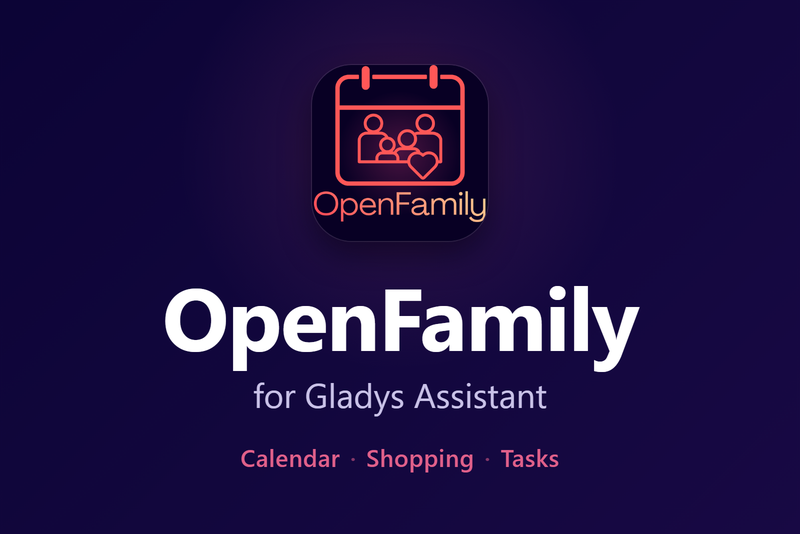
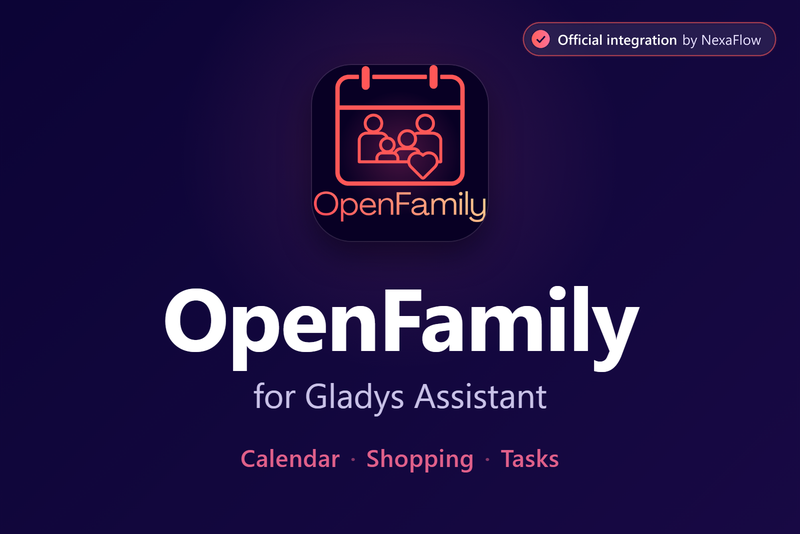
Say that this is the official OpenFamily integration, by NexaFlow
The cover image carries a small badge in its top right corner, the
READMEs open with the matching badge, and the documentation shown in the
Gladys catalog says who builds and maintains the integration. The
credits keep saying that it is not part of Gladys Assistant, where it is
listed as a community integration.

Changed region(s): [[0.6562, 0.03, 0.9688, 0.1199]]

diff --git a/README.fr.md b/README.fr.md
@@ -1,11 +1,12 @@
 <div align="center">
-  <img src="cover.png" alt="OpenFamily pour Gladys Assistant" width="520">
+  <img src="cover.png" alt="OpenFamily pour Gladys Assistant, l'intégration officielle par NexaFlow" width="520">
   <h1>OpenFamily pour Gladys Assistant</h1>
   <p><strong>Le calendrier familial, la liste de courses et les tâches, directement dans votre domotique</strong><br>
   Deux projets open source français, tous deux hébergés à la maison.</p>
 
 🇬🇧 <a href="README.md">English</a> · 🇫🇷 <strong>Français</strong>
 
+[![Intégration officielle par NexaFlow](https://img.shields.io/badge/Int%C3%A9gration%20officielle-par%20NexaFlow-ff605c)](https://nexaflow.fr)
 [![Release](https://img.shields.io/github/v/release/NexaFlowFrance/gladys-openfamily?color=16a34a&label=version)](https://github.com/NexaFlowFrance/gladys-openfamily/releases/latest)
 [![CI](https://img.shields.io/github/actions/workflow/status/NexaFlowFrance/gladys-openfamily/ci.yml?branch=main&label=CI)](https://github.com/NexaFlowFrance/gladys-openfamily/actions/workflows/ci.yml)
 [![Gladys Assistant](https://img.shields.io/badge/Gladys%20Assistant-5.2%2B-0ea5e9)](https://gladysassistant.com)
@@ -21,6 +22,9 @@ auto-hébergé : calendrier, liste de courses, tâches, repas, budget.
 [Gladys Assistant](https://gladysassistant.com) est un assistant domotique open source,
 respectueux de la vie privée. Cette intégration relie les deux : Gladys s'occupe de la maison,
 OpenFamily de la vie de famille qui s'y déroule.
+
+C'est l'intégration officielle d'OpenFamily pour Gladys Assistant, développée et maintenue par
+[NexaFlow](https://nexaflow.fr), l'équipe à l'origine d'OpenFamily.
 
 ## ✨ Ce que vous obtenez
 
@@ -90,8 +94,9 @@ Un problème, une idée ? Ouvrez une
 Construite à partir du
 [template JavaScript](https://github.com/GladysAssistant/integration-template-js) et du
 [SDK](https://github.com/GladysAssistant/integration-sdk-js) officiels de Gladys Assistant, en
-suivant les conseils donnés sur le forum de la communauté Gladys. C'est l'intégration du projet
-OpenFamily ; elle ne fait pas partie de Gladys Assistant.
+suivant les conseils donnés sur le forum de la communauté Gladys. C'est l'intégration officielle
+du projet OpenFamily, maintenue par [NexaFlow](https://nexaflow.fr). Elle ne fait pas partie de
+Gladys Assistant, où elle figure parmi les intégrations communautaires.
 
 ## 📄 Licence
 

diff --git a/README.md b/README.md
@@ -1,11 +1,12 @@
 <div align="center">
-  <img src="cover.png" alt="OpenFamily for Gladys Assistant" width="520">
+  <img src="cover.png" alt="OpenFamily for Gladys Assistant, the official integration by NexaFlow" width="520">
   <h1>OpenFamily for Gladys Assistant</h1>
   <p><strong>The family calendar, shopping list and tasks, right in your home assistant</strong><br>
   Two open-source projects made in France, both running at home.</p>
 
 🇬🇧 <strong>English</strong> · 🇫🇷 <a href="README.fr.md">Français</a>
 
+[![Official integration by NexaFlow](https://img.shields.io/badge/Official%20integration-by%20NexaFlow-ff605c)](https://nexaflow.fr)
 [![Release](https://img.shields.io/github/v/release/NexaFlowFrance/gladys-openfamily?color=16a34a&label=version)](https://github.com/NexaFlowFrance/gladys-openfamily/releases/latest)
 [![CI](https://img.shields.io/github/actions/workflow/status/NexaFlowFrance/gladys-openfamily/ci.yml?branch=main&label=CI)](https://github.com/NexaFlowFrance/gladys-openfamily/actions/workflows/ci.yml)
 [![Gladys Assistant](https://img.shields.io/badge/Gladys%20Assistant-5.2%2B-0ea5e9)](https://gladysassistant.com)
@@ -21,6 +22,9 @@ organizer: calendar, shopping list, tasks, meals, budget.
 [Gladys Assistant](https://gladysassistant.com) is an open-source home assistant that respects
 your privacy. This integration connects the two: Gladys looks after the house, OpenFamily after
 the family life that happens in it.
+
+This is the official OpenFamily integration for Gladys Assistant, built and maintained by
+[NexaFlow](https://nexaflow.fr), the team behind OpenFamily.
 
 ## ✨ What you get
 
@@ -120,8 +124,9 @@ or come and talk about it on the [Gladys community forum](https://community.glad
 Built on the official
 [JavaScript integration template](https://github.com/GladysAssistant/integration-template-js) and
 [SDK](https://github.com/GladysAssistant/integration-sdk-js) of Gladys Assistant, following the
-guidance given on the Gladys community forum. This is the OpenFamily project's own integration;
-it is not part of Gladys Assistant.
+guidance given on the Gladys community forum. This is the official integration of the OpenFamily
+project, maintained by [NexaFlow](https://nexaflow.fr). It is not part of Gladys Assistant, where
+it is listed as a community integration.
 
 ## 📄 License
 

diff --git a/CHANGELOG.md b/CHANGELOG.md
@@ -39,7 +39,9 @@ the notes of the version's GitHub Release.
 - The documentation asks for the address of the server as Gladys reaches it,
   not the one opened in the browser, and for OpenFamily 2.0 or later.
 - The cover image shown in the Gladys catalog now carries OpenFamily's own
-  logo and colors, in place of a generic illustration.
+  logo and colors, in place of a generic illustration, with a badge saying
+  that this is the official OpenFamily integration, by NexaFlow. The README
+  and the documentation say so too.
 
 ## [0.2.0] - 2026-11-15
 

diff --git a/docs/fr.md b/docs/fr.md
@@ -21,6 +21,9 @@ dans Gladys ce qui sert au quotidien dans la maison :
 Gladys ne modifie jamais le calendrier d'OpenFamily. Elle n'écrit dans OpenFamily que lorsque vous
 ajoutez ou cochez un article ou une tâche, depuis un widget ou une scène.
 
+C'est l'intégration officielle d'OpenFamily, développée et maintenue par
+[NexaFlow](https://nexaflow.fr), l'équipe à l'origine d'OpenFamily.
+
 ## Prérequis
 
 - Gladys Assistant 5.2.0 ou plus récent.

diff --git a/docs/en.md b/docs/en.md
@@ -19,6 +19,9 @@ the household uses every day:
 Gladys never changes the OpenFamily calendar. It only writes to OpenFamily when you add or check
 off an item or a task, from a widget or a scene.
 
+This is the official OpenFamily integration, built and maintained by
+[NexaFlow](https://nexaflow.fr), the team behind OpenFamily.
+
 ## Requirements
 
 - Gladys Assistant 5.2.0 or later.
